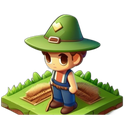
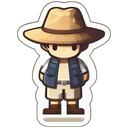
Regenerate NPC sprites as standalone characters (no ground plates)
Generated chibi characters on white backgrounds via ComfyUI, stripped
with rembg. No isometric bases — characters stand cleanly on tiles.
Buildings sized to 2x tile width to match their built-in base.
Cache bumped to v7.

diff --git a/engine/static/js/town.js b/engine/static/js/town.js
@@ -120,7 +120,7 @@
   const textureCache = {};
   const failedTextures = new Set();
   const loadingTextures = new Set();
-  const ASSET_VERSION = "v6";  // Cache-buster for CDN/Cloudflare
+  const ASSET_VERSION = "v7";  // Cache-buster for CDN/Cloudflare
 
   function tryLoadTexture(url) {
     if (textureCache[url]) return textureCache[url];
@@ -207,9 +207,9 @@
         sprite = new PIXI.Sprite(tex);
         sprite.anchor.set(0.5, 1.0);
         sprite.x = pos.x;
-        sprite.y = pos.y + TILE_H * 0.5;
-        sprite.width = TILE_W * 1.4;
-        sprite.height = TILE_W * 1.4;
+        sprite.y = pos.y + TILE_H * 0.75;
+        sprite.width = TILE_W * 2.0;
+        sprite.height = TILE_W * 2.0;
       }
 
       if (!sprite || failedTextures.has(spriteUrl)) {
@@ -299,9 +299,9 @@
         sprite = new PIXI.Sprite(tex);
         sprite.anchor.set(0.5, 1.0);
         sprite.x = pos.x;
-        sprite.y = pos.y + TILE_H * 0.5;
-        sprite.width = TILE_W * 0.7;
-        sprite.height = TILE_W * 0.7;
+        sprite.y = pos.y + TILE_H * 0.25;
+        sprite.width = TILE_W * 0.6;
+        sprite.height = TILE_W * 0.6;
       }
 
       if (!sprite || failedTextures.has(spriteUrl)) {

diff --git a/engine/templates/index.html b/engine/templates/index.html
@@ -49,6 +49,6 @@
     <!-- PixiJS from CDN -->
     <script src="https://cdnjs.cloudflare.com/ajax/libs/pixi.js/7.3.2/pixi.min.js"></script>
     <!-- Town renderer -->
-    <script src="/static/js/town.js?v=6"></script>
+    <script src="/static/js/town.js?v=7"></script>
 </body>
 </html>
